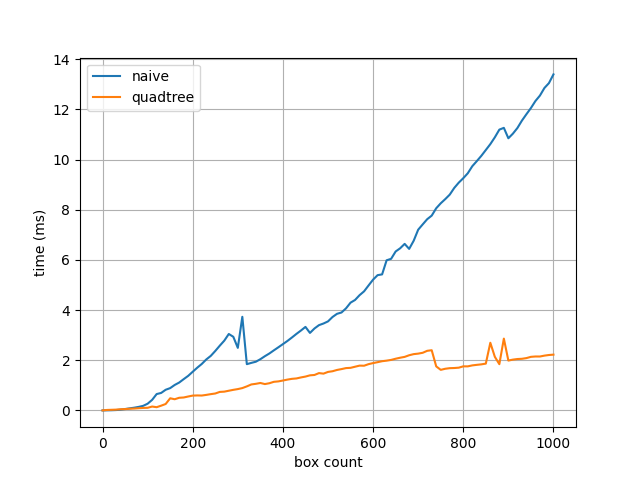
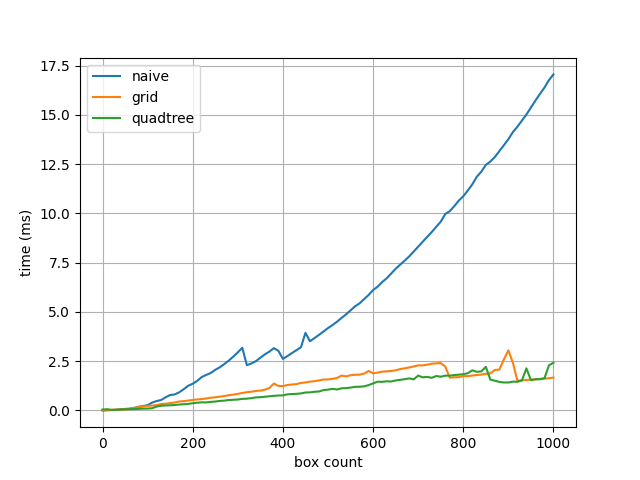
Added grid benchmarking.

diff --git a/src/main.c b/src/main.c
@@ -137,67 +137,98 @@ static void benchmark_naive(Window window) {
     benchmark_free(bm);
 }
 
-static void benchmark_grid(Window *window) {
-    Vec(Box) boxes = NULL;
-    init_boxes(&boxes, 100);
+static void benchmark_grid(Window window) {
+    Benchmark *bm = NULL;
 
-    const Box world_box = {
-        .pos = {{0.0f, 0.0f}},
-        .size = {{config.world.width, config.world.height}},
-    };
-    Grid grid = grid_new(world_box, vec2(10, 10));
+    for (uint32_t box_count = config.iter.init_box_count; box_count <= config.iter.max_box_count; box_count BOX_INCREASE) {
+        printf("Grid: Benchmarking %u boxes with %u iterations...\n", box_count, config.iter.count);
+        // Initialize
+        Vec(Box) boxes = NULL;
+        init_boxes(&boxes, box_count);
 
-    while (window->is_open) {
-        for (size_t i = 0; i < vec_len(boxes); i++) {
-            grid_insert(&grid, boxes[i]);
+        const Box world_box = {
+            .pos = {{0.0f, 0.0f}},
+            .size = {{config.world.width, config.world.height}},
+        };
+        Grid grid = grid_new(world_box, vec2(16, 16));
+
+        Vec(double) iter_times = NULL;
+        // Collision testing
+        for (size_t i = 0; i < config.iter.count; i++) {
+            Vec(Box) colliding_boxes = NULL;
+            Vec(Box) non_colliding_boxes = NULL;
+
+            window_clear(window, color_rgb_hex(0x000000));
+            bench_func(iter_time) {
+                for (size_t i = 0; i < vec_len(boxes); i++) {
+                    grid_insert(&grid, boxes[i]);
+                }
+                for (size_t i = 0; i < vec_len(boxes); i++) {
+                    bool collided = false;
+                    Vec(Box) near = grid_query(grid, boxes[i]);
+                    for (size_t j = 0; j < vec_len(near); j++) {
+                        if (box_eq(boxes[i], near[j])) {
+                            continue;
+                        }
+
+                        if (box_overlapp(boxes[i], near[j])) {
+                            vec_push(colliding_boxes, boxes[i]);
+                            collided = true;
+                            break;
+                        }
+                    }
+                    vec_free(near);
+                    if (!collided) {
+                        vec_push(non_colliding_boxes, boxes[i]);
+                    }
+                }
+            }
+
+            SDL_SetRenderDrawColor(window.renderer, 64, 64, 64, 255);
+            grid_debug_draw(grid, window.renderer);
+
+            SDL_SetRenderDrawColor(window.renderer, 255, 0, 0, 255);
+            for (size_t i = 0; i < vec_len(colliding_boxes); i++) {
+                SDL_FRect rect = {
+                    .x = colliding_boxes[i].pos.x,
+                    .y = colliding_boxes[i].pos.y,
+                    .w = colliding_boxes[i].size.w,
+                    .h = colliding_boxes[i].size.h,
+                };
+                SDL_RenderDrawRectF(window.renderer, &rect);
+            }
+
+            SDL_SetRenderDrawColor(window.renderer, 255, 255, 255, 255);
+            for (size_t i = 0; i < vec_len(non_colliding_boxes); i++) {
+                SDL_FRect rect = {
+                    .x = non_colliding_boxes[i].pos.x,
+                    .y = non_colliding_boxes[i].pos.y,
+                    .w = non_colliding_boxes[i].size.w,
+                    .h = non_colliding_boxes[i].size.h,
+                };
+                SDL_RenderDrawRectF(window.renderer, &rect);
+            }
+
+            window_present(window);
+
+            bench_func(clear_time) {
+                grid_reset(&grid);
+            }
+
+            vec_push(iter_times, clear_time + iter_time);
+
+            vec_free(colliding_boxes);
+            vec_free(non_colliding_boxes);
         }
 
-        window_clear(*window, color_rgb_hex(0x000000));
+        benchmark_register(&bm, iter_times, box_count);
 
-        SDL_SetRenderDrawColor(window->renderer, 64, 64, 64, 255);
-        grid_debug_draw(grid, window->renderer);
-
-        SDL_SetRenderDrawColor(window->renderer, 255, 255, 255, 255);
-        for (size_t i = 0; i < vec_len(boxes); i++) {
-            SDL_FRect rect = {
-                .x = boxes[i].pos.x,
-                .y = boxes[i].pos.y,
-                .w = boxes[i].size.x,
-                .h = boxes[i].size.y,
-            };
-            SDL_RenderDrawRectF(window->renderer, &rect);
-        }
-
-        int32_t mouse_x, mouse_y;
-        SDL_GetMouseState(&mouse_x, &mouse_y);
-        Vec(Box) query_boxes = grid_query(&grid, (Box) {
-                .pos = {{mouse_x, mouse_y}},
-                .size = vec2s(1),
-            });
-
-        SDL_SetRenderDrawColor(window->renderer, 255, 0, 0, 255);
-        for (size_t i = 0; i < vec_len(query_boxes); i++) {
-            SDL_FRect rect = {
-                .x = query_boxes[i].pos.x,
-                .y = query_boxes[i].pos.y,
-                .w = query_boxes[i].size.x,
-                .h = query_boxes[i].size.y,
-            };
-            SDL_RenderDrawRectF(window->renderer, &rect);
-        }
-
-        grid_reset(&grid);
-
-        window_present(*window);
-        window_poll_events(window);
+        grid_free(&grid);
+        vec_free(boxes);
     }
 
-    // for (uint32_t box_count = config.iter.init_box_count; box_count <= config.iter.max_box_count; box_count BOX_INCREASE) {
-    //     printf("Grid: Benchmarking %u boxes with %u iterations...\n", box_count, config.iter.count);
-    //     // Initialize
-    //     Vec(Box) boxes = NULL;
-    //     init_boxes(&boxes, box_count);
-    // }
+    benchmark_write_json(bm, "quadtree.json");
+    benchmark_free(bm);
 }
 
 static void benchmark_quadtree(Window window) {
@@ -290,16 +321,16 @@ static void benchmark_quadtree(Window window) {
         vec_free(boxes);
     }
 
-    benchmark_write_json(bm, "quadtree.json");
+    benchmark_write_json(bm, "grid.json");
     benchmark_free(bm);
 }
 
 int32_t main(void) {
     Window window = window_create("Spatial Partitioning", config.world.width, config.world.height);
 
-    // benchmark_naive(window);
-    benchmark_grid(&window);
-    // benchmark_quadtree(window);
+    benchmark_naive(window);
+    benchmark_grid(window);
+    benchmark_quadtree(window);
 
     window_destroy(&window);
     return 0;

diff --git a/src/grid.c b/src/grid.c
@@ -40,8 +40,8 @@ void grid_insert(Grid *grid, Box box) {
     }
 }
 
-Vec(Box) grid_query(Grid *grid, Box area) {
-    const Vec2 cell_size = vec2_div(grid->world_box.size, grid->cell_count);
+Vec(Box) grid_query(Grid grid, Box area) {
+    const Vec2 cell_size = vec2_div(grid.world_box.size, grid.cell_count);
 
     Vec2 top_left = vec2_div(area.pos, cell_size);
     top_left.x = floorf(top_left.x);
@@ -54,7 +54,7 @@ Vec(Box) grid_query(Grid *grid, Box area) {
     Vec(Box) result = NULL;
     for (int32_t y = top_left.y; y < bottom_right.y; y++) {
         for (int32_t x = top_left.x; x < bottom_right.x; x++) {
-            Cell cell = grid->cells[x+y*(int) grid->cell_count.x];
+            Cell cell = grid.cells[x+y*(int) grid.cell_count.x];
             for (uint32_t i = 0; i < cell.box_i; i++) {
                 vec_push(result, cell.boxes[i]);
             }

diff --git a/include/grid.h b/include/grid.h
@@ -23,6 +23,6 @@ struct Grid {
 extern Grid grid_new(Box grid_size, Vec2 cell_count);
 extern void grid_free(Grid *grid);
 extern void grid_insert(Grid *grid, Box box);
-extern Vec(Box) grid_query(Grid *grid, Box area);
+extern Vec(Box) grid_query(Grid grid, Box area);
 extern void grid_reset(Grid *grid);
 extern void grid_debug_draw(Grid grid, SDL_Renderer *renderer);

diff --git a/graph.py b/graph.py
@@ -28,7 +28,8 @@ class Graph:
 
 data = [
     Data("naive", "naive.json"),
-    Data("quadtree", "quadtree.json")
+    Data("grid", "grid.json"),
+    Data("quadtree", "quadtree.json"),
 ]
 
 graph = Graph()
